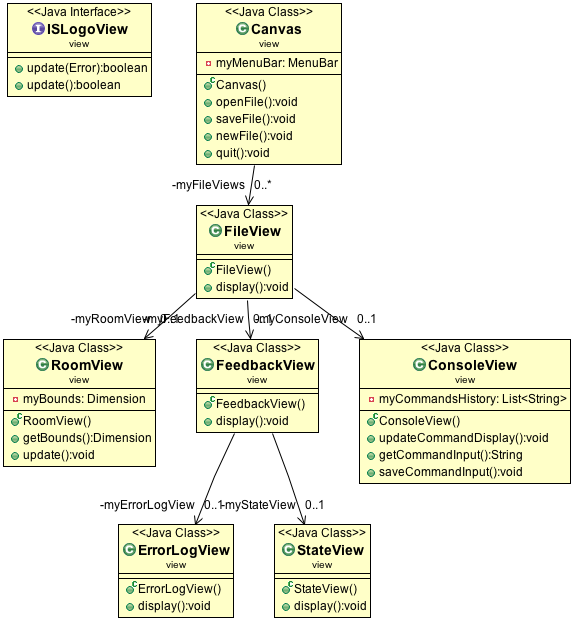
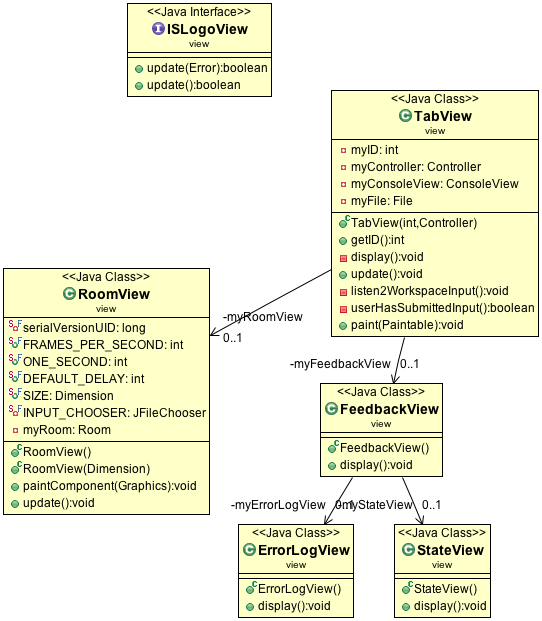
peer-coded view, implementing tabView and general layout.

diff --git a/src/view/Window.java b/src/view/Window.java
@@ -1,13 +1,22 @@
 package view;
 
+import java.awt.BorderLayout;
 import java.awt.GridBagConstraints;
 import java.awt.GridBagLayout;
+import java.awt.GridLayout;
 import java.awt.MenuBar;
+import java.awt.TextArea;
 import java.util.ArrayList;
 import java.util.List;
 import java.util.ResourceBundle;
 import javax.swing.JFileChooser;
 import javax.swing.JFrame;
+import javax.swing.JLabel;
+import javax.swing.JMenuBar;
+import javax.swing.JPanel;
+import javax.swing.JPasswordField;
+import javax.swing.JTabbedPane;
+import javax.swing.JTextField;
 
 @SuppressWarnings("serial")
 public class Window extends JFrame {
@@ -19,6 +28,7 @@ public class Window extends JFrame {
     static final String TITLE = "SLogo"; //for default constructor
     private List<TabView> myTabs;
     private TabView activeTab;
+    private JTabbedPane myTabbedPane;
     private MenuBar myMenuBar;
     private JFileChooser myChooser;
     private FeedbackView myFeedbackView;
@@ -26,6 +36,8 @@ public class Window extends JFrame {
     private RoomView myRoomView;
     private GridBagConstraints myConstraints;
     public static ResourceBundle myResources;
+    private JPanel panel1;
+    private JPanel panel3;
     
 
     public Window (String title, String language) {
@@ -34,20 +46,78 @@ public class Window extends JFrame {
         myChooser = new JFileChooser(System.getProperties().getProperty(USER_DIR));
         // create and arrange sub-parts of the GUI
         myResources = ResourceBundle.getBundle(DEFAULT_RESOURCE_PACKAGE + language);
+        //tabs
         myTabs = new ArrayList<TabView>();
         getContentPane().setLayout(new GridBagLayout());
         // add components
+        createPage1();
+        createPage3();
+        
         addComponents();
         pack();
         setVisible(true);
     }
     
+    
+    public GridBagConstraints getConstraints() {
+        return myConstraints;
+    }
+    
     public void addComponents() {
-        myConstraints = new GridBagConstraints();
-        getContentPane().add(myConsoleView = new ConsoleView(), myConsoleView.configLayout(myConstraints));
-        getContentPane().add(myRoomView = new RoomView(), myRoomView.configLayout(myConstraints));
-        getContentPane().add(myFeedbackView = new FeedbackView(), myFeedbackView.configLayout(myConstraints));
+        getContentPane().add(new JMenuBar());
+        myTabbedPane = new JTabbedPane();
+        myTabbedPane.addTab("Tab 1", new TabView(2, this));
+        myTabbedPane.addTab("Tab 2", new TabView(3, this));
+        getContentPane().add(myTabbedPane, configLayout());
+//        getContentPane().add(myConsoleView = new ConsoleView(), myConsoleView.configLayout(myConstraints));
+//        getContentPane().add(myRoomView = new RoomView(), myRoomView.configLayout(myConstraints));
+//        getContentPane().add(myFeedbackView = new FeedbackView(), myFeedbackView.configLayout(myConstraints));
     }      
+     public GridBagConstraints configLayout() {
+         GridBagConstraints c = new GridBagConstraints();
+         c.fill = GridBagConstraints.BOTH;
+         c.weightx = 1;
+         c.weighty = 1;
+         c.gridwidth = 1;
+         c.gridheight = 1;
+         c.gridx = 0;
+         c.gridy = 0;
+         return c;
+     }
+    public void createPage1()
+    {
+            panel1 = new JPanel();
+            panel1.setLayout( null );
+
+            JLabel label1 = new JLabel( "Username:" );
+            label1.setBounds( 10, 15, 150, 20 );
+            panel1.add( label1 );
+
+            JTextField field = new JTextField();
+            field.setBounds( 10, 35, 150, 20 );
+            panel1.add( field );
+
+            JLabel label2 = new JLabel( "Password:" );
+            label2.setBounds( 10, 60, 150, 20 );
+            panel1.add( label2 );
+
+            JPasswordField fieldPass = new JPasswordField();
+            fieldPass.setBounds( 10, 80, 150, 20 );
+            panel1.add( fieldPass );
+    }
+    
+    public void createPage3()
+    {
+            panel3 = new JPanel();
+            panel3.setLayout( new GridLayout( 2, 1 ) );
+
+            panel3.add( new JLabel( "Field 1:" ) );
+            panel3.add( new TextArea() );
+            panel3.add( new JLabel( "Field 2:" ) );
+            panel3.add( new TextArea() );
+            panel3.add( new JLabel( "Field 3:" ) );
+            panel3.add( new TextArea() );
+    }
 
     public void openFile() {
 

diff --git a/src/view/TabView.java b/src/view/TabView.java
@@ -1,28 +1,35 @@
 package view;
 
 import java.awt.BorderLayout;
+import java.awt.GridBagConstraints;
+import java.awt.GridBagLayout;
 import java.io.File;
 import java.util.Observable;
 import java.util.Observer;
 import javax.swing.JComponent;
 import javax.swing.JDialog;
 import javax.swing.JFrame;
+import javax.swing.JPanel;
 import controller.Controller;
 import model.Room;
 
-public class TabView extends JComponent {
+public class TabView extends JPanel {
 
     private int myID;
+    private Window myWindow;
+    private GridBagConstraints myConstraints;
     private Controller myController;
     private RoomView myRoomView;
     private ConsoleView myConsoleView;
     private FeedbackView myFeedbackView;
     private File myFile;
     
-    public TabView(int id, Controller con) {
+    public TabView(int id, Window hostWindow) {
+        this.setLayout(new GridBagLayout());
         myID = id;
-        myController = con;
-        myRoomView = new RoomView();
+        myWindow = hostWindow;
+        myConstraints = new GridBagConstraints() ;
+        addComponents();
 //        myConsoleView = new ConsoleView();
 //        myFeedbackView = new FeedbackView();
 //        getContentPane().add(myRoomView, BorderLayout.CENTER);
@@ -30,9 +37,26 @@ public class TabView extends JComponent {
 //        getContentPane().add(myFeedbackView, BorderLayout.CENTER);
     }
     
+    public TabView(int id) {
+        myID = id;
+    }
+    
     public int getID () {
         return myID;
     }
+    
+    
+    public GridBagConstraints getConstraints() {
+        return myConstraints;
+    }
+    
+    
+    public void addComponents() {
+        add(myConsoleView = new ConsoleView(), myConsoleView.configLayout(getConstraints()));
+        add(myRoomView = new RoomView(), myRoomView.configLayout(getConstraints()));
+        add(myFeedbackView = new FeedbackView(), myFeedbackView.configLayout(getConstraints()));
+    }
+    
     
     private void display() {
         

diff --git a/src/controller/Controller.java b/src/controller/Controller.java
@@ -34,7 +34,7 @@ public class Controller implements Observer {
         //Welcome message
         myView.setDefaultCloseOperation(JFrame.EXIT_ON_CLOSE);
         // display interface component
-        initializeRoom();
+//        initializeRoom();
         myView.pack();
         myView.setVisible(true);
 
@@ -88,7 +88,7 @@ public class Controller implements Observer {
     
     private void initializeRoom (int id) {
         Room theRoom = new Room(id);
-        TabView associatedTab = new TabView(id, this);
+        TabView associatedTab = new TabView(id, myView);
         Room2Tab.put(theRoom, associatedTab);
         Tab2Room.put(associatedTab, theRoom);
         theRoom.addObserver(this);

diff --git a/src/view/FeedbackView.java b/src/view/FeedbackView.java
@@ -23,13 +23,13 @@ public class FeedbackView extends WindowView {
     
     @Override
     public GridBagConstraints configLayout (GridBagConstraints c) {
-        c.fill = GridBagConstraints.HORIZONTAL;
+        c.fill = GridBagConstraints.BOTH;
         c.weightx = 1;
-        c.weighty = 1;
-        c.gridx = 0;
-        c.gridy = 6;
-        c.gridwidth = 6;
+        c.weighty = .125;
+        c.gridwidth = 8;
         c.gridheight = 1;
+        c.gridx = 0;
+        c.gridy = 7;
         return c;
     }
 }

diff --git a/src/view/ConsoleView.java b/src/view/ConsoleView.java
@@ -29,13 +29,13 @@ public class ConsoleView extends WindowView {
     
     @Override
     public GridBagConstraints configLayout(GridBagConstraints c) {
-        c.weightx = .5;
-        c.weighty = 1;
         c.fill = GridBagConstraints.BOTH;
-        c.gridx = 4;
-        c.gridy = 0;
-        c.gridwidth = 2;
+        c.weightx = 0.375;
+        c.weighty = .875;
+        c.gridwidth = 3;
         c.gridheight = 6;
+        c.gridx = 5;
+        c.gridy = 0;
         return c;
     }
     

diff --git a/src/view/RoomView.java b/src/view/RoomView.java
@@ -25,13 +25,13 @@ public class RoomView extends WindowView {
 
     @Override
     public GridBagConstraints configLayout (GridBagConstraints c) {
-        c.weightx = 1;
-        c.weighty = 1;
         c.fill = GridBagConstraints.BOTH;
+        c.weightx = .75;
+        c.weighty = .875;
+        c.gridwidth = 5;
+        c.gridheight = 6;
         c.gridx = 0;
         c.gridy = 0;
-        c.gridwidth = 4;
-        c.gridheight = 6;
         return c;
     }
 
